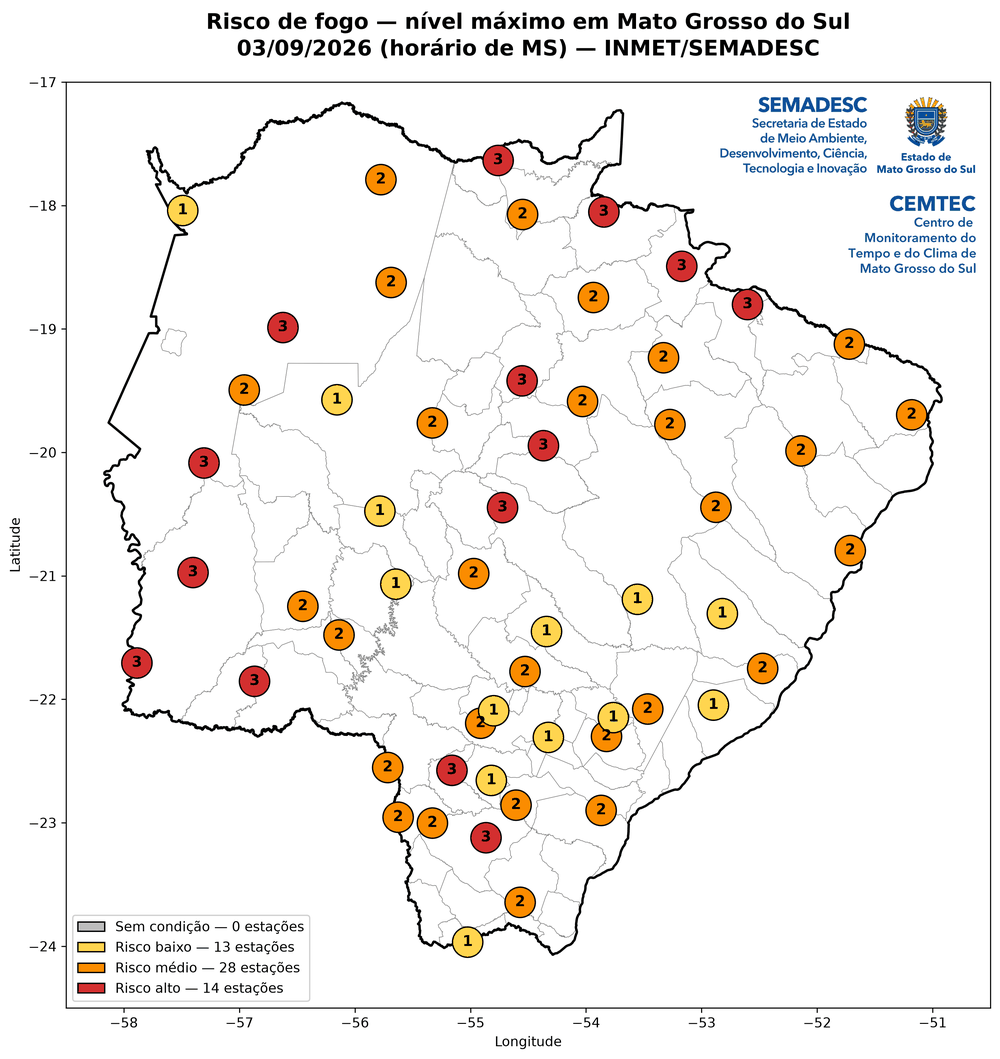
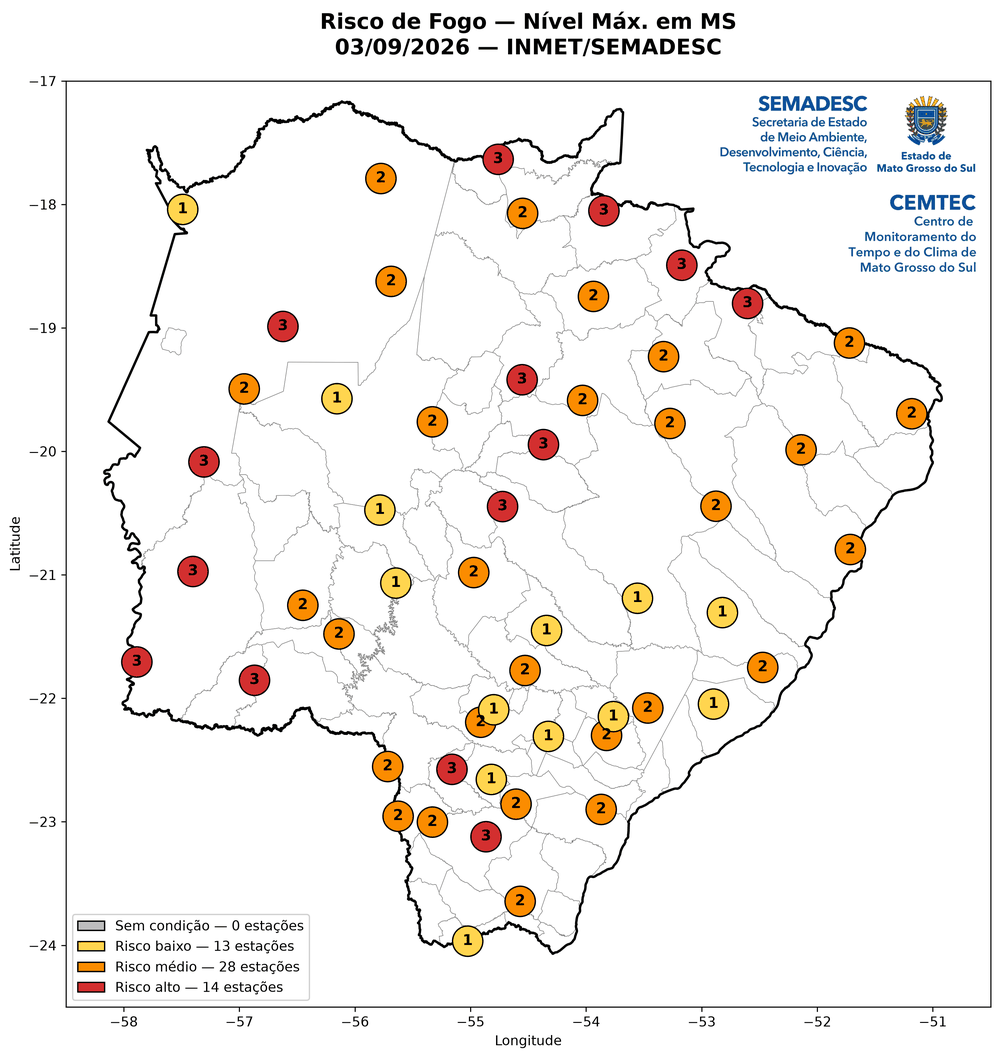
Ajusta critério dos mapas horários, planilha e títulos do risco_fogo
Os mapas horários passam a sair só nas horas em que alguma estação chegou
ao risco alto (nível 3); antes bastava o nível 2. Em 03/09 isso reduziu de
10 para 7 mapas, e num dia sem risco alto a pasta horas/ nem é criada. A
opção --hrtodas continua gerando todas as horas.

Em compensação, o acompanhamento dos níveis intermediários passa a ficar na
planilha, que já contava as horas nos três níveis e agora traz também a
coluna "Primeiro Horário em Risco Médio (MS)", ao lado da que existia para
o risco alto. Dá para ver quando o risco começou a subir mesmo nos dias que
não chegam ao nível 3: em 03/09, Porto Murtinho entrou em risco médio às
09h e chegou ao alto às 10h. Os mapas de horas em risco alto continuam
sendo gerados sempre, mesmo zerados.

Títulos mais curtos e com o fuso só onde há horário:

- "Risco de Fogo — Nível Máx. em MS"
- "Horas Agregadas de risco alto de fogo em MS"
- "Risco de Fogo em MS", com "03/09/2026 11:00 GMT-04" na segunda linha

O subtítulo passou a ser montado pelo próprio produto, para não alterar o
Periodo.descrever_janela, que o relatorio_inmet também usa.

Ficam registradas as confirmações da equipe de meteorologia (questões 6 e
7): a simultaneidade avaliada dentro de cada hora e a rajada na superfície
interpolada, apesar de o vento ser muito local.

README e exemplos atualizados: os mapas horários de exemplo passaram a ser
os de 10h, 13h e 16h, a janela de risco alto daquele dia.

Testes: 103.

diff --git a/modulos/produtos/risco_fogo.py b/modulos/produtos/risco_fogo.py
@@ -34,6 +34,7 @@ COLUNA_NIVEL = "Nível Máximo"
 COLUNA_HORAS_ALTO = "Horas em Risco Alto"
 COLUNA_NIVEL_HORA = "Nível na Hora"
 COLUNAS_CONDICOES = ["Temperatura Atendida", "Umidade Atendida", "Rajada Atendida"]
+NIVEL_MEDIO = 2
 NIVEL_ALTO = 3
 
 
@@ -90,7 +91,6 @@ def horas_da_janela(periodo: Periodo) -> pd.DatetimeIndex:
 def resumir_estacao(leituras: pd.DataFrame, estacao: pd.Series) -> dict:
     """Linha da planilha: nível máximo, horas em cada nível e os valores que dispararam as condições."""
     niveis = niveis_por_hora(leituras)
-    em_risco_alto = niveis[niveis == NIVEL_ALTO]
     return {
         "Estação": estacao["Estação"],
         COLUNA_NIVEL: int(niveis.max()),
@@ -101,7 +101,8 @@ def resumir_estacao(leituras: pd.DataFrame, estacao: pd.Series) -> dict:
         "Temp. Máxima (°C)": round(float(leituras["TEM_MAX"].max()), 1),
         "Umidade Mínima (%)": round(float(leituras["UMD_MIN"].min()), 1),
         "Rajada Máxima (km/h)": round(float(leituras["rajada_kmh"].max()), 1),
-        "Primeiro Horário em Risco Alto (MS)": _hora_ms(em_risco_alto.index.min() if len(em_risco_alto) else None),
+        "Primeiro Horário em Risco Médio (MS)": _primeiro_horario(niveis, NIVEL_MEDIO),
+        "Primeiro Horário em Risco Alto (MS)": _primeiro_horario(niveis, NIVEL_ALTO),
         "Latitude": estacao["VL_LATITUDE"],
         "Longitude": estacao["VL_LONGITUDE"],
     }
@@ -114,9 +115,15 @@ def montar_tabela(resumos: list[dict]) -> pd.DataFrame:
     )
 
 
-def _hora_ms(momento) -> str:
-    """Horário de uma leitura no fuso de MS, pronto para a planilha."""
-    return "" if momento is None else momento.tz_convert(config.FUSO_MS).strftime("%d/%m/%Y %H:%M")
+def _primeiro_horario(niveis: pd.Series, nivel: int) -> str:
+    """Primeira hora em que a estação alcançou esse nível, no horário de MS (vazio se nunca alcançou).
+
+    Serve para acompanhar quando o risco começou a subir, mesmo nos dias que não chegam ao nível alto.
+    """
+    alcancadas = niveis[niveis >= nivel]
+    if alcancadas.empty:
+        return ""
+    return alcancadas.index.min().tz_convert(config.FUSO_MS).strftime("%d/%m/%Y %H:%M")
 
 
 # =====================================================
@@ -198,6 +205,20 @@ def _espec_classes(titulo: str, subtitulo: str, arquivo: str) -> EspecClasses:
     return EspecClasses(titulo, subtitulo, arquivo, config.CORES_RISCO, config.ROTULOS_RISCO)
 
 
+def _subtitulo(periodo: Periodo) -> str:
+    """Data ou intervalo da consulta para o título do mapa.
+
+    O fuso (GMT-04, o horário de MS) só aparece quando o texto traz horário: numa data sozinha
+    ele não acrescenta nada. Não usa Periodo.descrever_janela para não mexer nos outros produtos.
+    """
+    inicio, fim = (momento.astimezone(config.FUSO_MS) for momento in periodo.janela)
+    if periodo.modo == "tempo_real":
+        return f"{inicio:%d/%m/%Y %H:%M} até {fim:%d/%m/%Y %H:%M} GMT-04"
+    if not periodo.dias_inteiros:
+        return f"{inicio:%d/%m/%Y %H:%M} a {fim:%d/%m/%Y %H:%M} GMT-04"
+    return f"{periodo.primeiro_dia:%d/%m/%Y}"
+
+
 def _indicadores_condicoes() -> Indicadores:
     """Pontos das condições atendidas nos mapas horários: temperatura à esquerda, umidade no meio, rajada à direita."""
     rotulos = [f"Temperatura máx. ≥ {config.LIMIAR_TEMP_MAX:g} °C",
@@ -220,13 +241,13 @@ def gerar_mapas(tabela: pd.DataFrame, horas: dict, periodo: Periodo, base: BaseC
         return
     pasta.mkdir(parents=True, exist_ok=True)
     identificador = periodo.identificador
-    subtitulo = periodo.descrever_janela(*periodo.janela)
+    subtitulo = _subtitulo(periodo)
 
-    espec = _espec_classes(f"Risco de fogo — nível máximo em {config.NOME_UF}", subtitulo,
+    espec = _espec_classes(f"Risco de Fogo — Nível Máx. em {config.UF}", subtitulo,
                            f"Mapa_Risco_Fogo_Nivel_{config.UF}")
     mapas.mapa_classes_pontual(gdf, COLUNA_NIVEL, espec, base, pasta / f"{espec.arquivo}_{identificador}.png")
 
-    exposicao = EspecMapa(ABA, COLUNA_HORAS_ALTO, f"Horas em risco alto de fogo em {config.NOME_UF}", subtitulo,
+    exposicao = EspecMapa(ABA, COLUNA_HORAS_ALTO, f"Horas Agregadas de risco alto de fogo em {config.UF}", subtitulo,
                           f"Mapa_Risco_Fogo_Horas_{config.UF}", "YlOrRd", "Horas em risco alto",
                           "5 MAIORES EXPOSIÇÕES")
     mapas.mapa_pontual(gdf, exposicao, base, pasta / f"{exposicao.arquivo}_{identificador}.png")
@@ -261,8 +282,8 @@ def _mapas_horarios(horas: dict, base: BaseCartografica, pasta: Path, todas_as_h
     print(f"\n🕐 Mapas horários: {len(selecionadas)} de {len(horas)} horas")
     for hora, avaliada in sorted(selecionadas.items()):
         local = hora.tz_convert(config.FUSO_MS)
-        espec = _espec_classes(f"Risco de fogo em {config.NOME_UF}",
-                               f"{local:%d/%m/%Y %H:%M} (horário de MS)",
+        espec = _espec_classes(f"Risco de Fogo em {config.UF}",
+                               f"{local:%d/%m/%Y %H:%M} GMT-04",
                                f"Mapa_Risco_Fogo_{config.UF}")
         estacoes = mapas.preparar_pontos(avaliada.estacoes, COLUNA_NIVEL_HORA, espec.subtitulo)
         mapas.mapa_classes_interpolado(avaliada.grade, estacoes, COLUNA_NIVEL_HORA, espec, base,

diff --git a/tests/test_risco_fogo.py b/tests/test_risco_fogo.py
@@ -95,6 +95,7 @@ def test_horas_da_janela(periodo, quantidade, primeira, ultima):
 
 def test_resumo_conta_as_horas_de_cada_nivel(serie):
     dados = serie("2026-09-16", "2026-09-17 05:00", TEM_MAX=QUENTE, UMD_MIN=UMIDO, VEN_RAJ=CALMO)  # nível 1 o dia todo
+    dados.loc[dados["dt_utc"] == utc("2026-09-16 16:00"), "UMD_MIN"] = SECO  # nível 2 às 12 h de MS
     duas_horas = dados["dt_utc"].isin([utc("2026-09-16 18:00"), utc("2026-09-16 19:00")])
     dados.loc[duas_horas, ["UMD_MIN", "VEN_RAJ"]] = [SECO, VENTOSO]
 
@@ -102,8 +103,10 @@ def test_resumo_conta_as_horas_de_cada_nivel(serie):
 
     assert linha["Nível Máximo"] == 3
     assert linha["Horas em Risco Alto"] == 2
-    assert linha["Horas Nível 1"] == 22
+    assert linha["Horas Nível 2"] == 1
+    assert linha["Horas Nível 1"] == 21
     assert linha["Horas com Dados"] == 24
+    assert linha["Primeiro Horário em Risco Médio (MS)"] == "16/09/2026 12:00"  # 16 UTC, quando começou a subir
     assert linha["Primeiro Horário em Risco Alto (MS)"] == "16/09/2026 14:00"  # 18 UTC = 14 h em MS
 
 
@@ -111,6 +114,7 @@ def test_estacao_sem_risco_alto_fica_sem_horario(serie):
     dados = serie("2026-09-16", "2026-09-17 05:00", TEM_MAX=FRIO, UMD_MIN=UMIDO, VEN_RAJ=CALMO)
     linha = risco_fogo.resumir_estacao(risco_fogo.leituras_validas(dados, DIA), ESTACAO)
     assert linha["Nível Máximo"] == 0
+    assert linha["Primeiro Horário em Risco Médio (MS)"] == ""
     assert linha["Primeiro Horário em Risco Alto (MS)"] == ""
 
 
@@ -130,9 +134,9 @@ def _hora(nivel_estacoes, nivel_grade):
     return risco_fogo.HoraAvaliada(np.full((2, 2), nivel_grade), estacoes)
 
 
-def test_so_as_horas_de_nivel_laranja_ganham_mapa():
+def test_so_as_horas_com_risco_alto_ganham_mapa():
     horas = {1: _hora(0, 0), 2: _hora(2, 2), 3: _hora(3, 3)}
-    assert sorted(risco_fogo.horas_para_mapear(horas)) == [2, 3]
+    assert sorted(risco_fogo.horas_para_mapear(horas)) == [3]
 
 
 def test_hrtodas_mapeia_todas_as_horas():
@@ -141,9 +145,20 @@ def test_hrtodas_mapeia_todas_as_horas():
 
 
 def test_criterio_olha_as_estacoes_e_nao_a_superficie():
-    """A superfície pode chegar ao laranja por interpolação sem que nenhuma estação tenha chegado."""
-    horas = {1: _hora(nivel_estacoes=1, nivel_grade=2)}
+    """A superfície pode chegar ao risco alto por interpolação sem que nenhuma estação tenha chegado."""
+    horas = {1: _hora(nivel_estacoes=2, nivel_grade=3)}
     assert risco_fogo.horas_para_mapear(horas) == {}
+
+
+# ---------- Títulos ----------
+
+@pytest.mark.parametrize("periodo, subtitulo", [
+    (DIA, "16/09/2026"),                                           # data sozinha: sem fuso
+    (MANHA, "16/09/2026 06:00 a 16/09/2026 09:00 GMT-04"),         # com horário: com fuso
+    (TEMPO_REAL, "13/09/2026 09:25 até 14/09/2026 09:25 GMT-04"),
+], ids=["dia", "janela_curta", "tempo_real"])
+def test_subtitulo_traz_o_fuso_so_quando_ha_horario(periodo, subtitulo):
+    assert risco_fogo._subtitulo(periodo) == subtitulo
 
 
 # ---------- Mapas horários ----------

diff --git a/modulos/config.py b/modulos/config.py
@@ -87,7 +87,7 @@ LIMIAR_RAJADA = 30.0       # km/h — condição atendida com rajada >= este val
 
 CORES_RISCO = ["#bdbdbd", "#ffd54f", "#fb8c00", "#d32f2f"]  # cinza, amarelo, laranja, vermelho
 ROTULOS_RISCO = ["Sem condição", "Risco baixo", "Risco médio", "Risco alto"]
-NIVEL_MAPA_HORARIO = 2     # nível mínimo, em alguma estação, para gerar o mapa daquela hora
+NIVEL_MAPA_HORARIO = 3     # nível mínimo, em alguma estação, para gerar o mapa daquela hora (3 = risco alto)
 # Pontos das condições atendidas nos mapas horários, na ordem temperatura, umidade e rajada (fora da paleta de risco)
 CORES_CONDICOES = ["#7b1fa2", "#1565c0", "#1b5e20"]  # roxo, azul, verde-escuro
 

diff --git a/main.py b/main.py
@@ -72,7 +72,7 @@ def ler_consulta(argumentos: list[str] | None = None) -> tuple[ModuleType, Perio
     parser.add_argument("--hrfim", type=ler_hora, help="hora de fim, horário de MS (0 a 24; padrão: 24)")
     parser.add_argument("--tempo-real", action="store_true", help="monitoramento das últimas 24 h")
     parser.add_argument("--hrtodas", action="store_true",
-                        help="risco_fogo: gera o mapa de todas as horas, e não só as de risco médio ou alto")
+                        help="risco_fogo: gera o mapa de todas as horas, e não só as de risco alto")
     args = parser.parse_args(argumentos)
 
     nome_produto = args.produto or PRODUTO

diff --git a/docs/questoes_meteorologia.md b/docs/questoes_meteorologia.md
@@ -2,7 +2,7 @@
 
 Durante a reestruturação dos scripts (versão 0.1.1), alguns pontos ficaram em aberto porque **mudam os resultados** e dependem de uma decisão meteorológica. Para cada um estão a situação atual, o problema e as opções. As respostas podem ser anotadas no campo **Decisão**.
 
-> **Situação em 16/09/2026:** as questões 1 a 5 (versão 0.1.1) foram respondidas e já estão aplicadas no código. As questões 6 a 8 são do produto novo `risco_fogo` (versão 0.1.4): trazem decisões já tomadas e alguns pontos marcados com ⚠ que ainda precisam de confirmação da meteorologia.
+> **Situação em 17/09/2026:** as questões 1 a 5 (versão 0.1.1) foram respondidas e já estão aplicadas no código. Nas questões 6 a 8, do produto `risco_fogo`, a equipe confirmou as aproximações de método (questões 6 e 7); continuam marcados com ⚠ apenas os limiares e o critério de gerar mapa horário, na questão 8.
 
 Nas descrições abaixo, os horários estão em UTC (horário de MS = UTC−4).
 
@@ -105,7 +105,7 @@ As decisões foram tomadas com o programador em 16/09/2026. Os pontos marcados c
 
 **Decisão (16/09/2026):** avaliar a regra **hora a hora**. Cada leitura horária do INMET traz a temperatura máxima, a umidade mínima e a rajada **daquela hora**; as três condições são testadas dentro de cada hora e só depois agregadas na janela consultada.
 
-⚠ **A confirmar:** dentro de uma mesma hora o resultado ainda não é rigorosamente simultâneo — a máxima e a mínima daquela hora podem estar separadas por dezenas de minutos. É a janela mais fina que a API oferece. A equipe aceita essa aproximação?
+**Confirmado (17/09/2026):** a equipe aceita a aproximação. Dentro de uma mesma hora o resultado não é rigorosamente simultâneo — a máxima e a mínima daquela hora podem estar separadas por dezenas de minutos —, mas é a janela mais fina que a API oferece.
 
 ---
 
@@ -115,7 +115,7 @@ As decisões foram tomadas com o programador em 16/09/2026. Os pontos marcados c
 
 **Decisão (16/09/2026):** interpolar as **três variáveis separadamente** — cada uma é um campo físico contínuo, que é para o que o IDW serve — e aplicar a regra 30-30-30 **célula a célula** na grade. As fronteiras entre as classes passam a cair exatamente onde cada limiar é cruzado.
 
-⚠ **A confirmar:** a rajada é o elo fraco do mapa. Vento de rajada é muito local (convectivo), então a superfície interpolada de vento é bastante menos confiável que as de temperatura e umidade. A equipe aceita essa limitação, ou prefere que a condição de vento seja considerada apenas nos pontos das estações?
+**Confirmado (17/09/2026):** a equipe aceita a limitação, e a condição de vento continua entrando na superfície interpolada. Fica o registro: vento de rajada é muito local (convectivo), então a superfície de vento é bastante menos confiável que as de temperatura e umidade.
 
 **Consequência visual, para não ser confundida com erro:** o mapa pontual e o interpolado podem discordar. A superfície pode mostrar nível 2 numa célula onde nenhuma estação está em nível 2, porque ela deriva dos campos físicos interpolados, e não dos níveis das estações.
 
@@ -127,7 +127,7 @@ As decisões foram tomadas com o programador em 16/09/2026. Os pontos marcados c
 
 - **Modos:** somente **tempo real** e **data específica**. Consultas de período são recusadas com mensagem explicativa — para período, a equipe quer dados quantitativos em gráfico (estação × condições atendidas), e não mapas. Fica para uma etapa seguinte.
 - **Mapas de síntese** (sempre gerados): **nível máximo atingido** e **número de horas em risco alto**, cada um em versão pontual e interpolada.
-- **Mapas horários:** apenas interpolados — gerar pontual e interpolado por hora dobraria para 48 arquivos num único dia. Por padrão, só são gerados nas horas em que **pelo menos uma estação** atingiu nível ≥ 2 (laranja); com a opção `--hrtodas`, saem todas as horas disponíveis, independentemente do nível.
+- **Mapas horários:** apenas interpolados — gerar pontual e interpolado por hora dobraria para 48 arquivos num único dia. Por padrão, só são gerados nas horas em que **pelo menos uma estação** atingiu o nível 3 (risco alto); com a opção `--hrtodas`, saem todas as horas disponíveis, independentemente do nível. *(Até 17/09/2026 o critério era o nível 2; veja a decisão no fim desta questão.)*
 - **Peso das condições:** as três pesam igual.
 - **Estação sem uma das três variáveis:** fica de fora do mapa e é listada no resumo. Incluí-la subestimaria o risco, já que ela nunca poderia alcançar o nível 3.
 - **Cores:** cinza (0), amarelo (1), laranja (2), vermelho (3). O par verde/vermelho foi evitado por causa de daltonismo.
@@ -135,4 +135,6 @@ As decisões foram tomadas com o programador em 16/09/2026. Os pontos marcados c
 
 **Decisão (17/09/2026):** nos mapas horários, cada estação mostra o seu nível **naquela hora** e, abaixo do número, um ponto para cada condição atendida — roxo para temperatura, azul para umidade e verde para rajada —, sempre na mesma posição (temperatura à esquerda, umidade no meio, rajada à direita), para que a condição seja identificável mesmo por quem não distingue as cores. Os mapas de síntese (nível máximo e horas em risco alto) não recebem os pontos, porque juntam horas diferentes.
 
-⚠ **A confirmar:** os limiares (≥ 30 °C, ≤ 30 %, ≥ 30 km/h) e o critério de gerar mapa horário a partir do nível laranja.
+**Decisão (17/09/2026):** os mapas horários passam a ser gerados **só nas horas com alguma estação em risco alto** (nível 3) — antes bastava o nível 2. A opção `--hrtodas` continua gerando todas as horas. Em compensação, o acompanhamento dos níveis intermediários fica na planilha, que conta as horas nos três níveis e ganhou a coluna `Primeiro Horário em Risco Médio (MS)`, ao lado da que já existia para o risco alto: assim dá para ver quando o risco começou a subir, mesmo nos dias que não chegam ao nível 3. Os mapas de "horas em risco alto" continuam sendo gerados sempre, mesmo zerados.
+
+⚠ **A confirmar:** os limiares (≥ 30 °C, ≤ 30 %, ≥ 30 km/h) e o critério de gerar mapa horário só a partir do risco alto.

diff --git a/README.md b/README.md
@@ -298,8 +298,8 @@ saida/risco_fogo/dia/20260903/
     ├── Mapa_Risco_Fogo_Horas_MS_20260903.png
     ├── Mapa_Risco_Fogo_Horas_MS_20260903_interpolado.png
     └── horas/
-        ├── Mapa_Risco_Fogo_MS_20260903_09h.png
         ├── Mapa_Risco_Fogo_MS_20260903_10h.png
+        ├── Mapa_Risco_Fogo_MS_20260903_11h.png
         └── ...
 ```
 
@@ -314,7 +314,7 @@ saida/risco_fogo/dia/20260903/
 
 O **nível máximo** mostra o pico; as **horas em risco alto** mostram a duração — ficar 6 horas em 30-30-30 é bem diferente de ficar 1 hora. Em dias em que nenhuma estação chega ao nível 3, os mapas de horas ficam zerados.
 
-**Quais horas ganham mapa próprio:** por padrão, só as horas em que **pelo menos uma estação** chegou ao risco médio ou alto (nível ≥ 2); num dia ameno, a pasta `horas/` nem é criada. Com `--hrtodas`, saem todas as horas, até 24 num dia. Cada mapa horário leva a hora em que a leitura termina: o das 14h mostra a hora das 13 h às 14 h.
+**Quais horas ganham mapa próprio:** por padrão, só as horas em que **pelo menos uma estação** chegou ao risco alto (nível 3); num dia sem risco alto, a pasta `horas/` nem é criada. Com `--hrtodas`, saem todas as horas, até 24 num dia. Cada mapa horário leva a hora em que a leitura termina: o das 14h mostra a hora das 13 h às 14 h.
 
 **Pontos das condições nos mapas horários:** o número de cada estação é o nível dela **naquela hora**, e abaixo dele aparece um ponto para cada condição atendida — roxo para temperatura, azul para umidade e verde para rajada. Cada condição ocupa sempre a mesma posição (temperatura à esquerda, umidade no meio, rajada à direita), então dá para identificá-la mesmo sem distinguir as cores. Os mapas de síntese não têm os pontos: eles juntam horas diferentes, e as condições de uma única hora não representariam o dia.
 
@@ -326,6 +326,7 @@ Colunas da planilha:
 | `Horas em Risco Alto`, `Horas Nível 2`, `Horas Nível 1` | Quantas horas a estação passou em cada nível |
 | `Horas com Dados` | Quantas horas tinham as três variáveis |
 | `Temp. Máxima (°C)`, `Umidade Mínima (%)`, `Rajada Máxima (km/h)` | Extremos da janela, para conferir por que a estação recebeu o seu nível |
+| `Primeiro Horário em Risco Médio (MS)` | Quando a estação chegou ao nível 2 pela primeira vez — mostra quando o risco começou a subir, mesmo nos dias que não chegam ao nível 3 |
 | `Primeiro Horário em Risco Alto (MS)` | Quando a estação chegou ao nível 3 pela primeira vez (vazio se não chegou) |
 | `Latitude`, `Longitude` | Posição da estação |
 
@@ -337,11 +338,11 @@ Mapas gerados com dados reais do INMET para **03/09/2026**.
 |---|---|---|
 | <img src="docs/img/risco_fogo/nivel_pontual.png" alt="Mapa pontual do nível máximo de risco de fogo por estação" width="245"> | <img src="docs/img/risco_fogo/nivel_interpolado.png" alt="Mapa interpolado do nível máximo de risco de fogo" width="245"> | <img src="docs/img/risco_fogo/horas_risco_alto_interpolado.png" alt="Mapa interpolado das horas em risco alto de fogo" width="245"> |
 
-A evolução ao longo do dia, nos mapas horários — o risco sobe pela manhã, atinge o pico no início da tarde e recua no fim do dia:
+A evolução ao longo do dia, nos mapas horários. Em 03/09 o risco alto apareceu às 10h, se espalhou à tarde e desapareceu depois das 16h — por isso o dia rendeu sete mapas horários:
 
-| 11h | 14h | 18h |
+| 10h | 13h | 16h |
 |---|---|---|
-| <img src="docs/img/risco_fogo/hora_11h.png" alt="Mapa de risco de fogo às 11h" width="245"> | <img src="docs/img/risco_fogo/hora_14h.png" alt="Mapa de risco de fogo às 14h" width="245"> | <img src="docs/img/risco_fogo/hora_18h.png" alt="Mapa de risco de fogo às 18h" width="245"> |
+| <img src="docs/img/risco_fogo/hora_10h.png" alt="Mapa de risco de fogo às 10h" width="245"> | <img src="docs/img/risco_fogo/hora_13h.png" alt="Mapa de risco de fogo às 13h" width="245"> | <img src="docs/img/risco_fogo/hora_16h.png" alt="Mapa de risco de fogo às 16h" width="245"> |
 
 #### Dados de referência
 
@@ -375,12 +376,15 @@ O método foi definido em **16/09/2026** a partir do pedido da equipe (questões
 - Regra avaliada hora a hora, e não sobre os extremos do período.
 - Três variáveis interpoladas separadamente, com a regra aplicada ponto a ponto.
 - Somente data específica e tempo real; período fica para os gráficos de uma etapa futura.
-- Mapas de síntese (nível máximo e horas em risco alto) em versão pontual e interpolada; mapas horários só interpolados, filtrados pelo nível ≥ 2 nas estações, ou todos com `--hrtodas`.
+- Mapas de síntese (nível máximo e horas em risco alto) em versão pontual e interpolada, sempre gerados; mapas horários só interpolados, apenas nas horas com alguma estação em risco alto, ou todos com `--hrtodas`.
+- A planilha conta as horas nos três níveis e traz o primeiro horário em risco médio e em risco alto: dá para acompanhar quando o risco começou a subir, mesmo nos dias que não chegam ao nível 3.
 - As três condições têm o mesmo peso; estações sem uma das variáveis ficam de fora.
 - Cores cinza, amarelo, laranja e vermelho (sem o par verde/vermelho, por causa do daltonismo).
 - Nos mapas horários, pontos das condições atendidas abaixo de cada estação, em posição fixa (definido em 17/09/2026).
 
-⚠ **Ainda aguardam confirmação da meteorologia:** a aproximação de simultaneidade dentro da hora, a confiabilidade da rajada interpolada, os limiares (≥ 30 °C, ≤ 30 %, ≥ 30 km/h) e o critério do nível laranja para gerar mapa horário.
+Em **17/09/2026** a equipe confirmou duas aproximações do método: avaliar a simultaneidade dentro de cada hora (a janela mais fina que a API oferece) e manter a rajada na superfície interpolada, apesar de o vento ser muito local.
+
+⚠ **Ainda aguardam confirmação da meteorologia:** os limiares (≥ 30 °C, ≤ 30 %, ≥ 30 km/h) e o critério de gerar mapa horário só a partir do risco alto.
 
 ---
 
